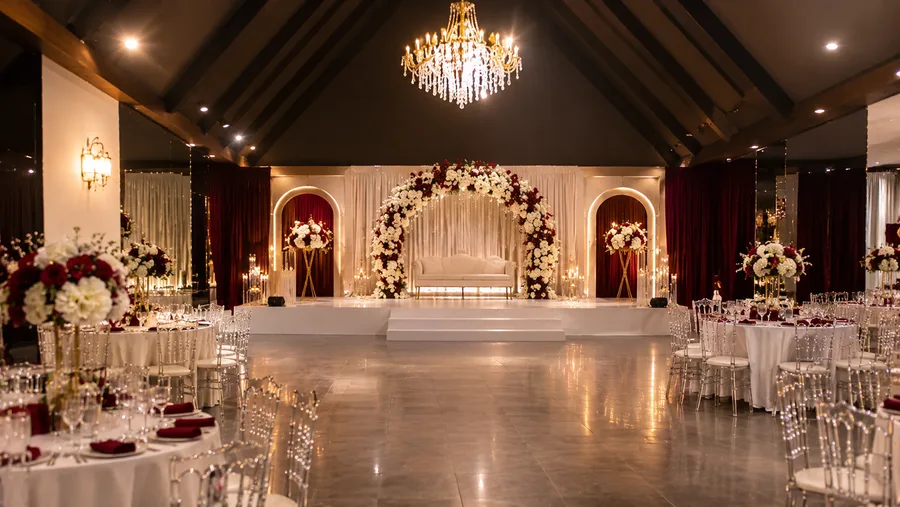
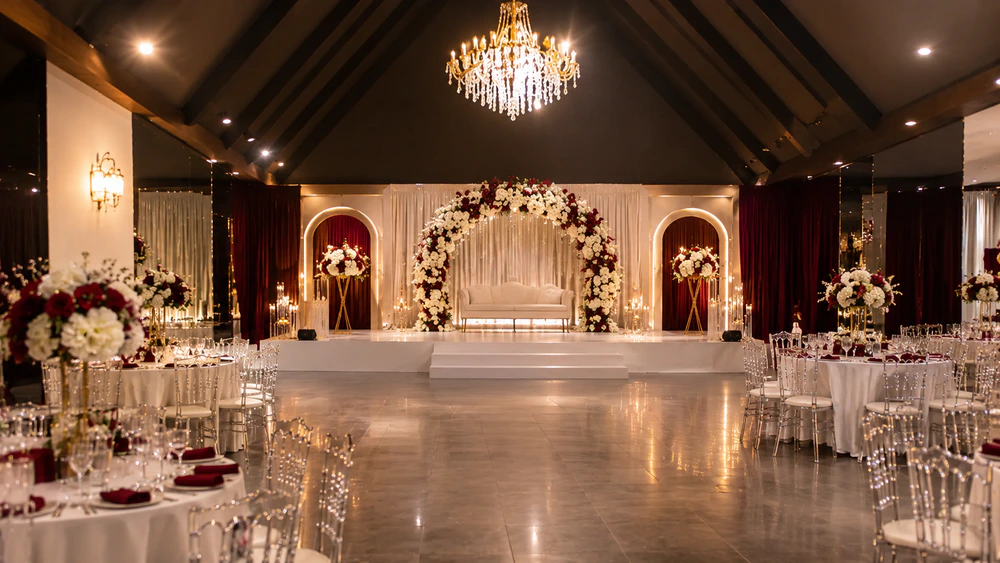
Hero: back to site width so the photo isn't upscaled (blurry)
Re-encode at higher quality (q92) and serve a 1000px variant on phones.

diff --git a/src/components/HeroSection.tsx b/src/components/HeroSection.tsx
@@ -1,23 +1,23 @@
-// An edge-to-edge photo of a decorated reception hall, with the cream card holding the
-// calls to action below it. The frame is taller on phones (4:3) and panoramic on wider
-// screens (21:9), always cropped around the floral arch.
+// A photo of a decorated reception hall within the site width, with the cream card
+// holding the calls to action below it. Kept at the site width (not edge to edge) so the
+// 1672px source is never upscaled into blur.
 export function HeroSection() {
   return (
-    <section className="bg-cream pb-10 sm:pb-14">
-      <h1 className="sr-only">YALM Events — Créons ensemble vos moments inoubliables</h1>
-      {/* eslint-disable-next-line @next/next/no-img-element */}
-      <img
-        src="/hero-salle.webp"
-        srcSet="/hero-salle-900.webp 900w, /hero-salle.webp 1672w"
-        sizes="100vw"
-        alt="Salle de réception décorée en bordeaux et blanc, arche fleurie et lustre"
-        width={1672}
-        height={941}
-        fetchPriority="high"
-        className="block aspect-[4/3] w-full object-cover object-[50%_45%] sm:aspect-[16/9] lg:aspect-[21/9] lg:object-[50%_15%]"
-      />
+    <section className="bg-cream px-4 py-10 sm:px-8 sm:py-14">
+      <div className="mx-auto max-w-6xl">
+        <h1 className="sr-only">YALM Events — Créons ensemble vos moments inoubliables</h1>
+        {/* eslint-disable-next-line @next/next/no-img-element */}
+        <img
+          src="/hero-salle.webp"
+          srcSet="/hero-salle-900.webp 1000w, /hero-salle.webp 1672w"
+          sizes="(min-width: 1152px) 1152px, 100vw"
+          alt="Salle de réception décorée en bordeaux et blanc, arche fleurie et lustre"
+          width={1672}
+          height={941}
+          fetchPriority="high"
+          className="block aspect-[16/9] w-full rounded-xl object-cover shadow-[0_16px_34px_rgba(0,0,0,0.25)]"
+        />
 
-      <div className="mx-auto max-w-6xl px-4 sm:px-8">
         <div className="mt-6 flex flex-col items-center gap-5 rounded-lg bg-cream px-6 py-6 shadow-[0_16px_34px_rgba(0,0,0,0.35)] sm:mt-8 sm:flex-row sm:justify-between sm:px-10">
           <p className="font-script text-center text-4xl leading-none text-bordeaux sm:text-left sm:text-5xl">
             Rejoignez-nous dès maintenant
